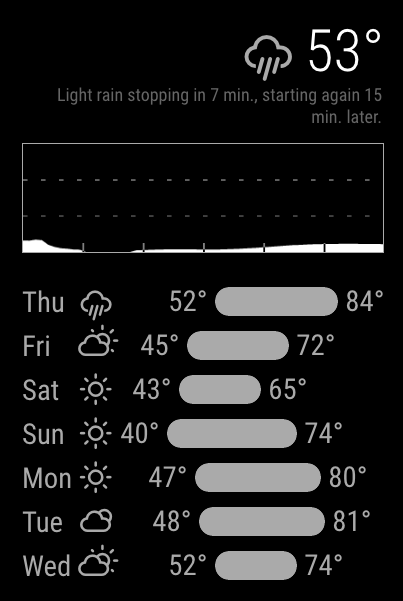
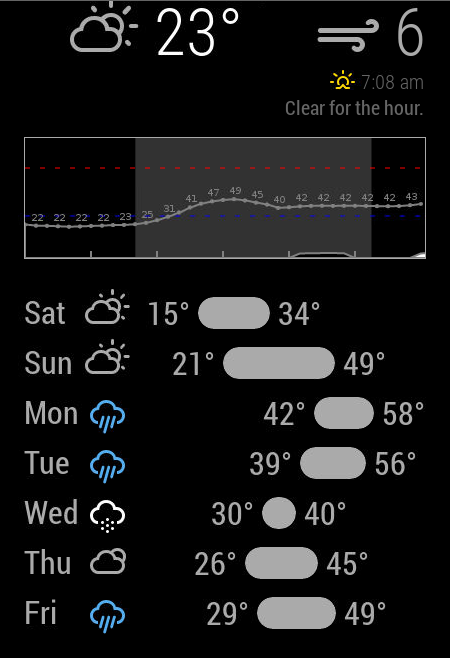
Add files via upload

diff --git a/README.md b/README.md
@@ -7,6 +7,10 @@ Unfortunately, Geolocation will currently not work with MagicMirror's Electron-b
 https://github.com/electron/electron/issues/6648
 If you are using MagicMirror headless with your own browser this shouldn't be a problem.
 
+Note also that the graph is based on degrees fahrenheit.  If you use another unit, you will probably have to adjust the code for proper vertical scaling.
+
+This module uses white icons by default.  If you prefer color coded icons, merge the contents of the "Color-icons.md" file into your "css\custom.css" file. 
+
 ![screenshot](screenshot.png)
 
 ## Using the module
@@ -20,6 +24,15 @@ modules: [
     config: {
       // See 'Configuration options' for more information.
       apiKey: 'abcde12345abcde12345abcde12345ab', // Dark Sky API key.
+
+      updateInterval: 900000,  // 15 minutes
+
+      showWind: true,
+      showSunrise: true, 
+      showSummary: true,
+      showPrecipitationGraph: true,
+      showForecast: true,
+
       // Only required if geolocation doesn't work:
       latitude:   16.77532,
       longitude: -3.008265
@@ -110,7 +123,7 @@ modules: [
     </tr>
     <tr>
       <td><code>showForcast</code></td>
-      <td>Toggles display of the seven-day weather forecast.<br>
+      <td>Toggles display of the seven-day weather forecast list.<br>
         <br><b>Default value:</b>  <code>true</code>
       </td>
     </tr>
@@ -122,15 +135,26 @@ modules: [
     </tr>
     <tr>
       <td><code>precipitationGraphWidth</code></td>
-      <td>Width of the precipitation graph element in pixels. Scales height to match.<br>
+      <td>Width of the precipitation graph element in pixels. Scales height to 30 percent of width automatically.<br>
         <br><b>Default value:</b>  <code>400</code>
       </td>
     </tr>
     <tr>
-      <td><code>precipitationProbabilityThreshold</code></td>
-      <td>Probability threshold at which rain is rendered onto the precipitation graph.<br>
-          See the <a href="https://darksky.net/dev/docs/response#data-point">Darksky.net API documentation</a> for more details.<br>
-        <br><b>Default value:</b>  <code>0.1</code>
+      <td><code>showWind</code></td>
+      <td>Toggles display of current wind speed next.<br>
+        <br><b>Default value:</b>  <code>true</code>
+      </td>
+    </tr>
+    <tr>
+      <td><code>showSunrise</code></td>
+      <td>Toggles display of next sunrise or sunset time.<br>
+        <br><b>Default value:</b>  <code>true</code>
+      </td>
+    </tr>
+    <tr>
+      <td><code>showSummary</code></td>
+      <td>Toggles display of next hour's weather summary text.<br>
+        <br><b>Default value:</b>  <code>true</code>
       </td>
     </tr>
     <tr>

diff --git a/Color-icons.md b/Color-icons.md
@@ -1,0 +1,133 @@
+.MMM-forecast-io .wi-sunrise {
+color: #ffd700;
+}
+.MMM-forecast-io .wi-sunset {
+color: #ffa500;
+}
+.MMM-forecast-io .wi-day-sunny {
+color: #ffff00;
+}
+.MMM-forecast-io .wi-night-showers {
+color: #55acee;
+}
+.MMM-forecast-io .wi-degrees {
+color: #415;
+}
+.MMM-forecast-io .wi-rain {
+color: #55acee;
+}
+.MMM-forecast-io .wi-showers {
+color: #55acee;
+}
+.MMM-forecast-io .wi-night-showers {
+color: #55acee;
+}
+.MMM-forecast-io .wi-night-alt-cloudy-windy {
+color: #aaa;
+}
+.MMM-forecast-io .wi-night-cloudy {
+color: #aaa;
+}
+.MMM-forecast-io .wi-cloudy {
+color: #aaa;
+}
+.MMM-forecast-io .wi-day-cloudy {
+color: #aaa;
+}
+.MMM-forecast-io .wi-cloudy {
+color: #aaa;
+}
+.MMM-forecast-io .wi-cloudy-windy {
+color: #aaa;
+}
+.MMM-forecast-io .wi-showers {
+color: #55acee;
+}
+.MMM-forecast-io .wi-thunderstorm {
+color: #ff00ff;
+}
+.MMM-forecast-io .wi-snow {
+color: #fff;
+}
+.MMM-forecast-io .wi-fog {
+color: #999;
+}
+.MMM-forecast-io .wi-night-clear {
+color: #fff;
+}
+.MMM-forecast-io .wi-night-rain {
+color: #55acee;
+}
+.MMM-forecast-io .wi-night-thunderstorm {
+color: #ff00ff;
+}
+.MMM-forecast-io .wi-night-snow {
+color: #fff;
+}
+
+.MMM-forecast-io .wi-sunrise {
+color: #ffd700;
+}
+.MMM-forecast-io .wi-sunset {
+color: #ffa500;
+}
+.MMM-forecast-io .wi-day-sunny {
+color: #ffff00;
+}
+.MMM-forecast-io .wi-night-showers {
+color: #55acee;
+}
+.MMM-forecast-io .wi-degrees {
+color: #415;
+}
+.MMM-forecast-io .wi-rain {
+color: #55acee;
+}
+.MMM-forecast-io .wi-showers {
+color: #55acee;
+}
+.MMM-forecast-io .wi-night-showers {
+color: #55acee;
+}
+.MMM-forecast-io .wi-night-alt-cloudy-windy {
+color: #aaa;
+}
+.MMM-forecast-io .wi-night-cloudy {
+color: #aaa;
+}
+.MMM-forecast-io .wi-cloudy {
+color: #aaa;
+}
+.MMM-forecast-io .wi-day-cloudy {
+color: #aaa;
+}
+.MMM-forecast-io .wi-cloudy {
+color: #aaa;
+}
+.MMM-forecast-io .wi-cloudy-windy {
+color: #aaa;
+}
+.MMM-forecast-io .wi-showers {
+color: #55acee;
+}
+.MMM-forecast-io .wi-thunderstorm {
+color: #ff00ff;
+}
+.MMM-forecast-io .wi-snow {
+color: #fff;
+}
+.MMM-forecast-io .wi-fog {
+color: #999;
+}
+.MMM-forecast-io .wi-night-clear {
+color: #fff;
+}
+.MMM-forecast-io .wi-night-rain {
+color: #55acee;
+}
+.MMM-forecast-io .wi-night-thunderstorm {
+color: #ff00ff;
+}
+.MMM-forecast-io .wi-night-snow {
+color: #fff;
+}
